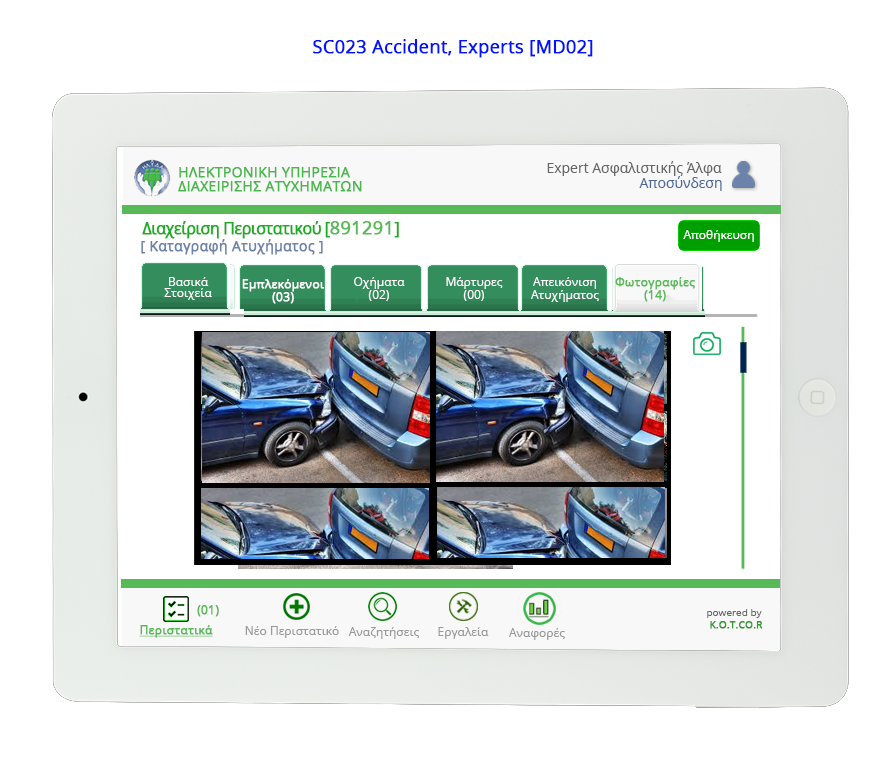
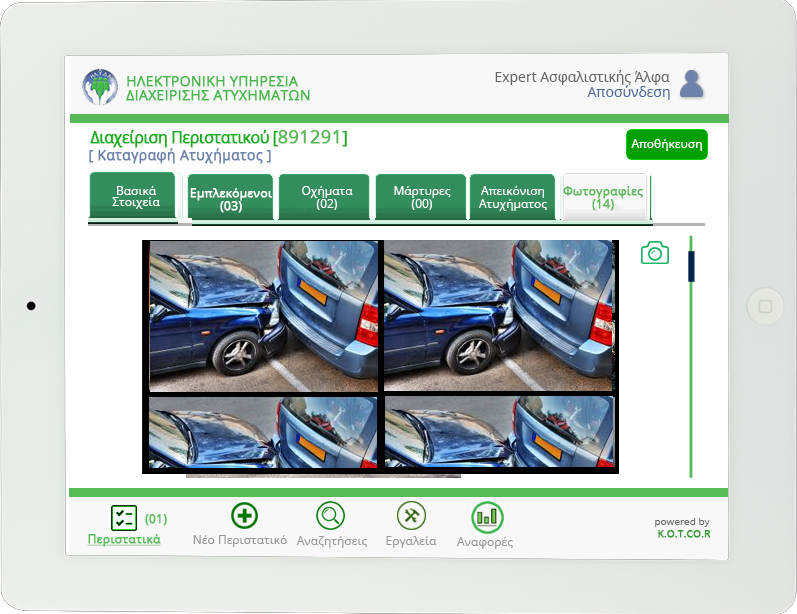
add README.md , crop showcase pics

diff --git a/README.md b/README.md
@@ -1,0 +1,39 @@
+# Project ILIDA 
+#### Ηλεκτρονική Υπηρεσία Διαχείρισης Ατυχήματος
+
+![alt text](https://github.com/crowdhackathon-insurance/Knights-of-the-Coding-Republic/blob/master/ilida-design/Design/Icons/ilida_high_res.png?raw=true "ILIDA logo" )
+
+Project ILIDA is a platform that solves the problem of accident submition and management in grand scale. It is designed to act in a national scope, providing the right tools and support on every interested party, from the final consumer, to insurance companies, or even the police and the national emergency aid center.
+
+The platform consists of various modules and sub-modules, four of them are presented here as a MVP.
+* Mobile app for consumers
+* Mobile app for experts
+* Web app for backoffice operators
+* Restful Core API
+
+![](https://github.com/crowdhackathon-insurance/Knights-of-the-Coding-Republic/blob/master/ilida-design/Design/ILIDA_USE_CASE.v.1.0.png?raw=true)
+
+## Phone App - consumers
+The public consumer app is used to easily submit an accident and track it's progress.
+![](https://github.com/crowdhackathon-insurance/Knights-of-the-Coding-Republic/blob/master/ilida-design/Design/MD01%20-%20PUBLIC/MD01_SPLASH.png?raw=true)
+![](https://github.com/crowdhackathon-insurance/Knights-of-the-Coding-Republic/blob/master/ilida-design/Design/MD01%20-%20PUBLIC/SC000-Insure-Login,-Public-%5BMD01%5D.png?raw=true)
+![](https://github.com/crowdhackathon-insurance/Knights-of-the-Coding-Republic/blob/master/ilida-design/Design/MD01%20-%20PUBLIC/SC002-Accident-Tracking-List,-Public-%5BMD01%5D.png?raw=true)
+![](https://github.com/crowdhackathon-insurance/Knights-of-the-Coding-Republic/blob/master/ilida-design/Design/MD01%20-%20PUBLIC/SC003-Accident-Submit,-Public-%5BMD01%5D.png?raw=true)
+![](https://github.com/crowdhackathon-insurance/Knights-of-the-Coding-Republic/blob/master/ilida-design/Design/MD01%20-%20PUBLIC/SC004-Accident,-Public-%5BMD01%5D.png?raw=true)
+
+## Tablet App - experts
+The expert app is used by experts that register and evaluate accident data. This app will notify experts in the vicinity of an accident accepted by the backoffice system. An expert can accept the accident and move to it's location.
+![](https://github.com/crowdhackathon-insurance/Knights-of-the-Coding-Republic/blob/master/ilida-design/Design/MD02%20-%20EXPERT/SC022%20Accident%20Tracking%20List,%20Experts%20%5BMD02%5D.png?raw=true)
+![](https://github.com/crowdhackathon-insurance/Knights-of-the-Coding-Republic/blob/master/ilida-design/Design/MD02%20-%20EXPERT/SC023-Accident,-Experts,-Α.png?raw=true)
+![](https://github.com/crowdhackathon-insurance/Knights-of-the-Coding-Republic/blob/master/ilida-design/Design/MD02%20-%20EXPERT/SC023-Accident,-Experts,-Β.png?raw=true)
+![](https://github.com/crowdhackathon-insurance/Knights-of-the-Coding-Republic/blob/master/ilida-design/Design/MD02%20-%20EXPERT/SC023-Accident,-Experts,-Γ.png?raw=true)
+![](https://github.com/crowdhackathon-insurance/Knights-of-the-Coding-Republic/blob/master/ilida-design/Design/MD02%20-%20EXPERT/SC023-Accident,-Experts,-Ε.png?raw=true)
+
+## Web App - backoffice operators
+The backoffice app is used by the operation center. Operators will manage and validate all accidents that pass from the platform.
+![](https://github.com/crowdhackathon-insurance/Knights-of-the-Coding-Republic/blob/master/ilida-design/Design/MD03%20-%20BACKOFFICE/SC030-Login,-Backoffice-%5BMD03%5D.png?raw=true)
+![](https://github.com/crowdhackathon-insurance/Knights-of-the-Coding-Republic/blob/master/ilida-design/Design/MD03%20-%20BACKOFFICE/SC031-Main-&-Accident-Tracking-List,-Backoffice-%5BMD03%5D.png?raw=true)
+
+## RESTful API 
+In the core of the platform resides a RESTful API in ASP.NET Web API, this API services all the current and future modules of the platform. There is currently no documentation available, but you can see the Domain Model.
+![](https://github.com/crowdhackathon-insurance/Knights-of-the-Coding-Republic/blob/master/ilida-design/Design/Domain%20Model.png?raw=true)
